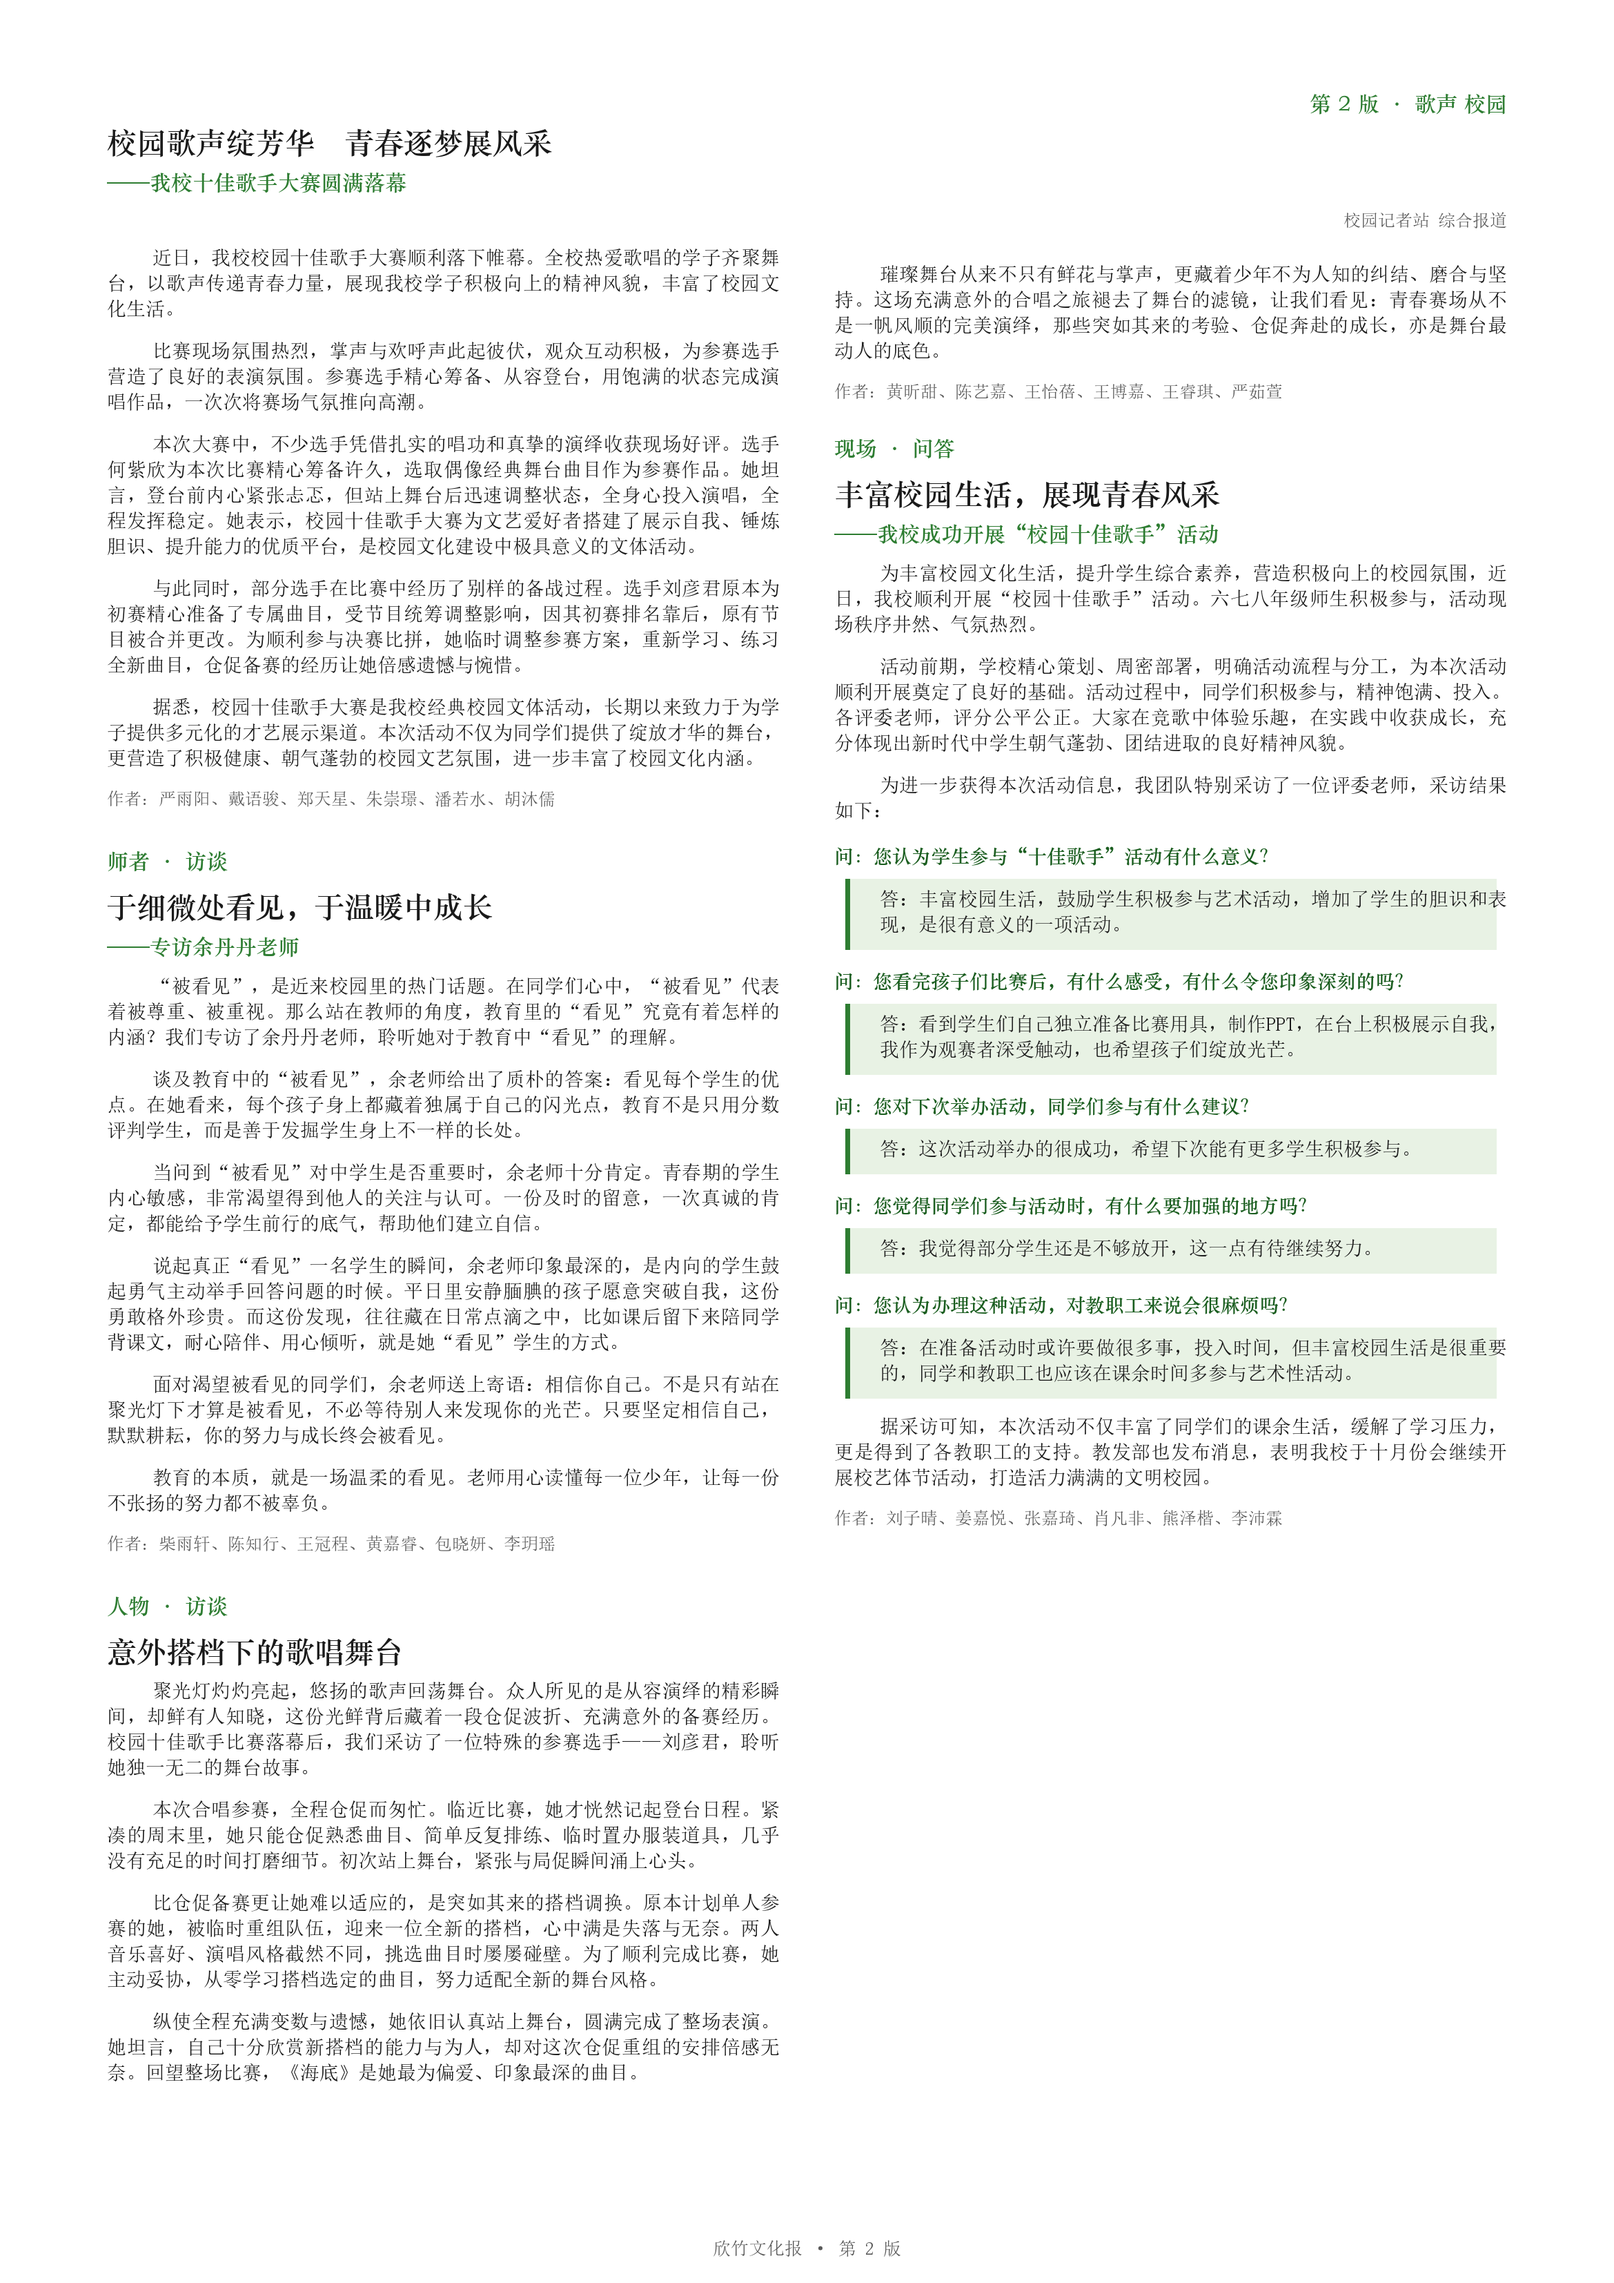
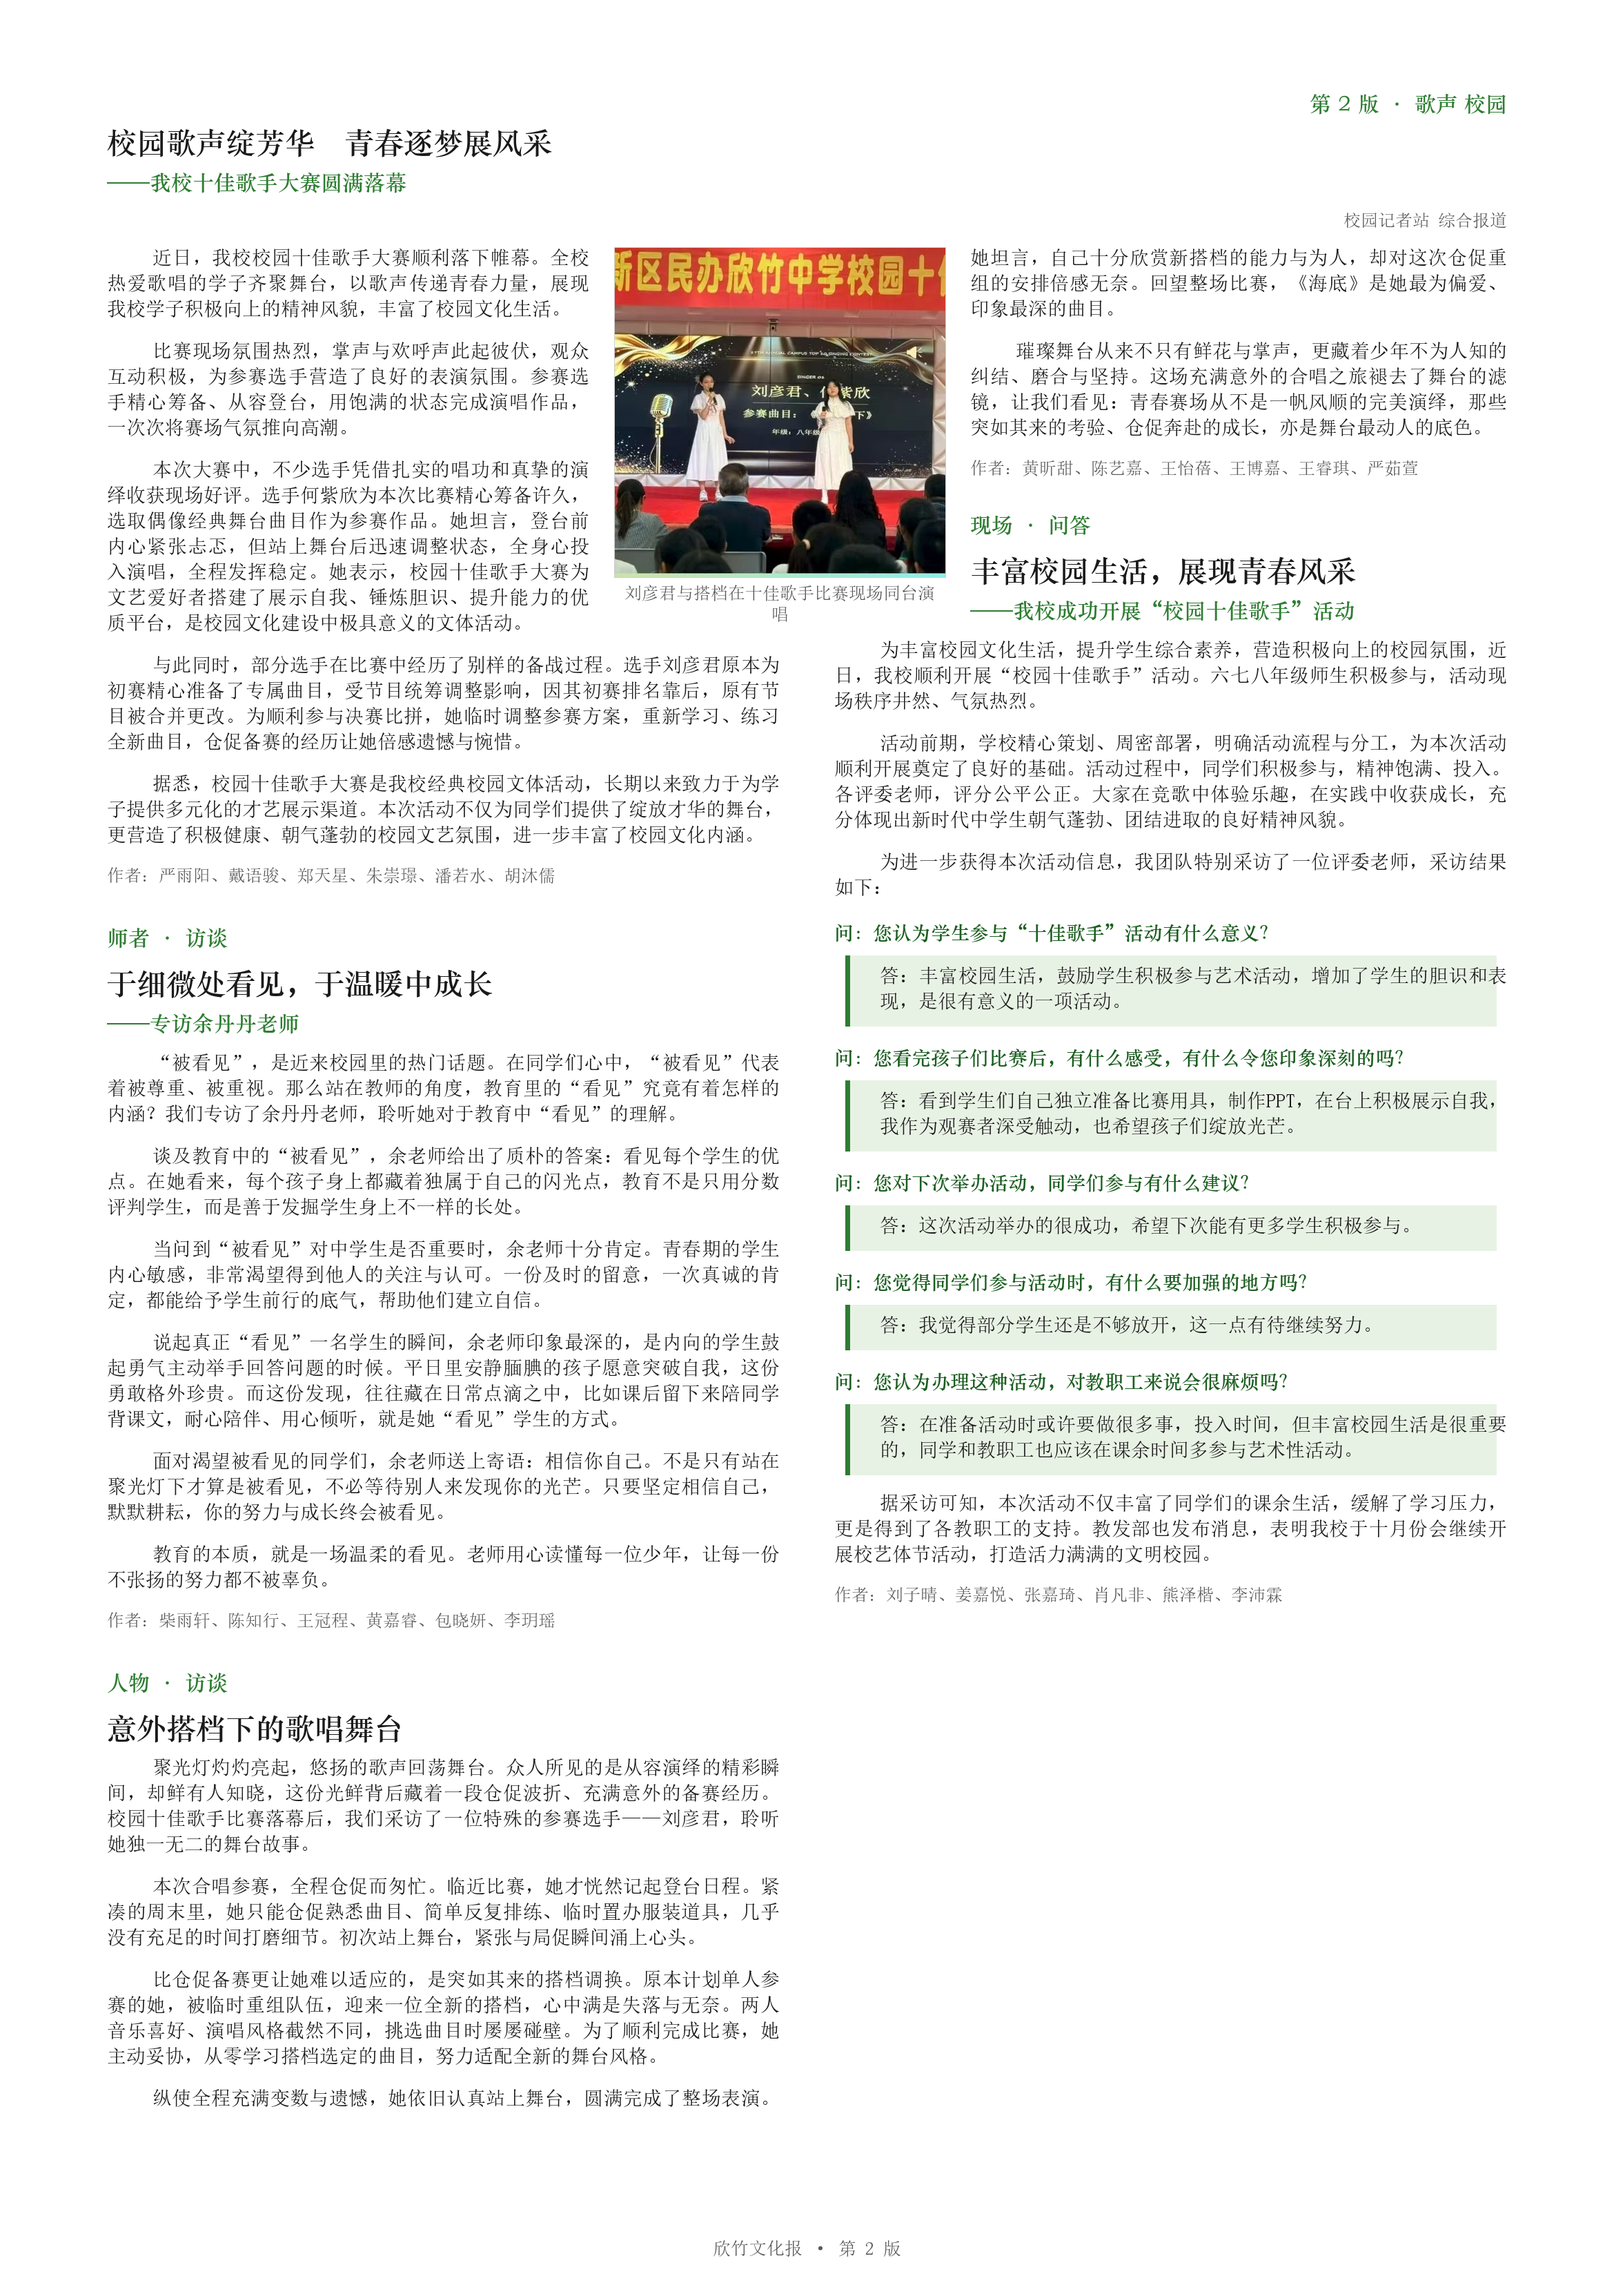
1022 配图补齐：P1加递零食图(双图跨缝一上一下)，P2加歌手舞台图(右栏顶部绕排)

Changed region(s): [[0.0624, 0.0934, 0.9363, 0.9344]]

diff --git a/render_linux.py b/render_linux.py
@@ -418,7 +418,8 @@ flow.top = flow.y  # 右栏从报头下方起排，避免压到署名行
 
 # 两张绕栏图跨两栏中缝，一上一下，中间留白隔开
 _img_y0 = flow.y
-flow.image(PHOTO1, col1_x + COLW - 320, _img_y0 + 150, 640, 290, "起跑冲刺，同学们蓄势待发", CAP)
+flow.image(PHOTO1, col1_x + COLW - 280, _img_y0 + 120, 560, 254, "起跑冲刺，同学们蓄势待发", CAP)
+flow.image(PHOTO3, col1_x + COLW - 280, _img_y0 + 120 + 254 + 68 + 20, 560, 219, "班主任老师为参赛同学递上零食", CAP)
 
 flow.para("为进一步丰富在校师生的课余文化生活，营造轻松鲜活的校园氛围，10月8日下午，由我校体育组主办的“乐动比赛日”主题活动核心项目——“抢零食大赛”在我校操场正式拉开帷幕，240名来自四个年级的初中学生报名参赛，活动现场欢声笑语不断，成为秋日校园里一道独特的活力风景线。", body_font, LH, indent=IND)
 flow.para("本次大赛跳出传统文体赛事的固有框架，以“释放压力、共享欢乐”为核心设计理念，契合“乐动比赛日”让学生走下座位、动起来玩起来的活动定位。比赛分为四轮，各个年级各比赛一轮，活动现场的参赛区域内，每轮会放置各类零食放置在操场中央，各班班主任老师与学生配合，由老师传递零食，学生们接力运送零食来争取获得更多的零食数目。最后在各年级之间决出胜负。各班获得的零食也能带回班级与同学们分享。", body_font, LH, indent=IND)
@@ -437,7 +438,7 @@ flow.para("比赛过程中，同学们尽情投入，尽显少年活力。各班
 flow.para("短短几分钟的比拼转瞬即逝，在裁判老师公正的统计下，本次抢零食大战落下帷幕，多个班级凭借高效的协作和良好的秩序斩获佳绩。赛后，参赛同学们手持满满的“战利品”，脸上洋溢着灿烂的笑容。大家相互分享零食、交流比赛趣事，校园里处处洋溢着温馨欢乐的氛围。有同学表示，这场特别的零食大战，不仅收获了美味的零食，更在轻松的游戏中放松了身心，增进了和同学之间的情谊。", body_font, LH, indent=IND)
 flow.para("本次抢零食趣味赛事，是我校落实素质教育、打造多彩校园生活的生动缩影。没有激烈的竞技压力，却有满满的快乐与温暖，既锻炼了同学们的反应能力与协作能力，又有效舒缓了学业压力。相信同学们将带着赛场收获的快乐与活力，以更饱满的热情、更昂扬的状态投入到今后的学习生活中，不负时光，向阳成长。", body_font, LH, indent=IND)
 # 署名行避开中缝图片，避免在窄栏里折出孤字
-_cover_bottom = _img_y0 + 150 + 290 + 68 + 17
+_cover_bottom = _img_y0 + 120 + 254 + 68 + 20 + 219 + 68 + 17
 if flow.col == 1 and flow.y < _cover_bottom:
     flow.y = _cover_bottom + 4
 flow.para("作者：王怡蓓、严茹萱、陈艺嘉、黄昕甜、王睿琪、王博嘉", fnt("NotoSansSC-Regular", 21), LH, indent=0, justify=False, fill=GRAY, after=8)
@@ -475,6 +476,7 @@ article_head(d2, flow2, "校园歌声绽芳华　青春逐梦展风采", "——
 right_text(d2, flow2.y, "校园记者站 综合报道", author_font2, GRAY)
 flow2.y += 52
 flow2.top = flow2.y  # 右栏从报头下方起排
+flow2.image(SINGER, col1_x + COLW - 240, flow2.y, 480, 478, "刘彦君与搭档在十佳歌手比赛现场同台演唱", CAP)
 
 flow2.para("近日，我校校园十佳歌手大赛顺利落下帷幕。全校热爱歌唱的学子齐聚舞台，以歌声传递青春力量，展现我校学子积极向上的精神风貌，丰富了校园文化生活。", body_font2, LH2, indent=IND2)
 flow2.para("比赛现场氛围热烈，掌声与欢呼声此起彼伏，观众互动积极，为参赛选手营造了良好的表演氛围。参赛选手精心筹备、从容登台，用饱满的状态完成演唱作品，一次次将赛场气氛推向高潮。", body_font2, LH2, indent=IND2)
